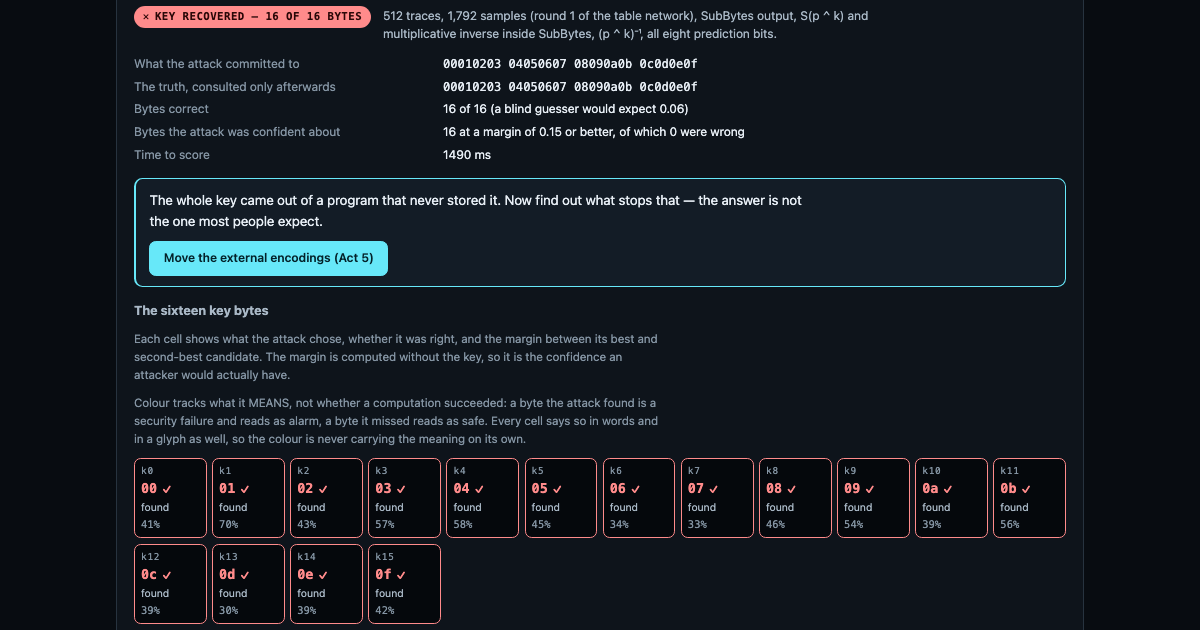
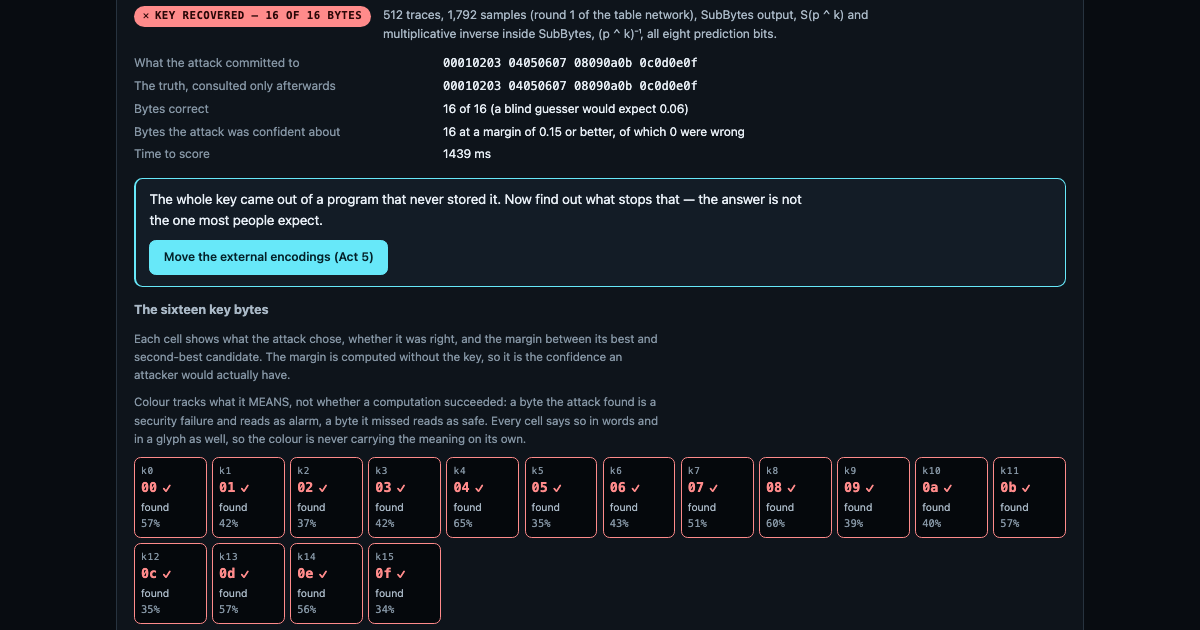
Make a seed pin the run, not just the program
CI failed the sweep on a claim the lab could not keep. The sweep asserted
that compiling the external encodings in leaves the recovery unchanged, and
got 15 bytes against 16 at 256 traces. Nothing was wrong with the page. The
sweep had no seed, so it built `sweep-${Date.now()}` - a different instance
every run - and the assertion was about a measurement nobody could look at
again. The same test had passed twice before on other instances.

Chasing that turned up the real defect, which was a sentence. The page said
a seeded link "gives the same instance, the same traces and the same
recovery". It did not: handleTrace drew the attacker's plaintexts from
systemRng() regardless, so a seed pinned the program and left the run to
chance. Two runs of one seed disagreed on every confidence margin.

So the seed now pins the plaintexts too, from a `seed + '/traces'` stream -
domain-separated from the one that builds the encodings, because trace input
that happened to be encoding material would be hard to notice and
embarrassing to explain. It makes the attack no easier: DCA needs plaintexts
it KNOWS, not plaintexts nobody could predict, and where they came from is
not an input to the statistic. An unseeded instance still draws from the
system RNG and still says so. Measured: two seeded runs now agree on all
sixteen margins, two unseeded runs agree on none, and a claims test asserts
both directions.

The act 5 comparison gains a third outcome. "The counts differ" and "the
[…]

diff --git a/src/main.ts b/src/main.ts
@@ -618,7 +618,7 @@ function buildSection(): HTMLElement {
       'seed',
       'Encoding seed (optional)',
       seedInput,
-      'Leave it empty for crypto.getRandomValues. A seed reproduces the exact instance — encodings, mixing bijections and all — which makes it reproducible and therefore not secret.',
+      'Leave it empty for crypto.getRandomValues. A seed pins the whole run: every encoding and mixing bijection, and the plaintexts the attack is given to work from, so the same seed gives the same recovery down to the confidence margins. That is reproducible and therefore not secret. Without one, the instance AND the plaintexts are fresh each time, so two runs of the same settings can differ by a byte or two.',
     ),
     radioGroup('placement', 'Where the external encodings live', PLACEMENT_OPTIONS, state.placement, (value) => {
       // Re-selecting what is already selected must not retire a fresh verdict.
@@ -1450,13 +1450,32 @@ function renderLog(): void {
   const plain = state.log.find((r) => r.placement === 'none' && r.surface === 'input');
   const compiled = state.log.find((r) => r.placement === 'compiled-in' && r.surface === 'input');
   if (plain && compiled) {
+    /*
+     * Three outcomes, not two, because "the counts differ" and "the encoding
+     * stopped the attack" are not the same event and only the second one would
+     * contradict Bos et al. section 5.4 as this lab reproduces it.
+     *
+     * An unseeded run draws fresh plaintexts for each placement, so two runs
+     * that both recover the key can still land a byte or two apart. Reporting
+     * that as THE TWO RUNS DIFFER and stopping there invited the reader to
+     * conclude the headline claim had just failed in front of them. It had not.
+     * A seeded instance pins the plaintexts too, and then the counts are equal
+     * or something is genuinely wrong.
+     */
     const same = plain.correctCount === compiled.correctCount;
+    const stopped = plain.correctCount >= 4 && compiled.correctCount < 4;
+    const outcome = stopped ? 'refuted' : same ? 'identical' : 'different';
+    const head = stopped
+      ? 'THE ENCODING STOPPED THE ATTACK'
+      : same
+        ? 'THE ENCODING CHANGED NOTHING'
+        : 'THE ENCODING DID NOT SAVE IT';
     logHost.append(
       el(
         'div',
-        { class: 'verdict-row', id: 'compiled-in-comparison', 'data-comparison': same ? 'identical' : 'different' },
+        { class: 'verdict-row', id: 'compiled-in-comparison', 'data-comparison': outcome },
         [
-          verdict(same ? 'alarm' : 'warn', same ? 'THE ENCODING CHANGED NOTHING' : 'THE TWO RUNS DIFFER'),
+          verdict(stopped ? 'ok' : 'alarm', head),
           el('span', { class: 'verdict-detail' }, [
             `Compiling the external encodings in grew the program from ${count(plain.tables)} tables (${bytesHuman(
               plain.bytes,
@@ -1464,7 +1483,14 @@ function renderLog(): void {
               plain.traceBits,
             )} bits to ${count(compiled.traceBits)}. The attack recovered ${plain.correctCount} bytes before and ${
               compiled.correctCount
-            } after.`,
+            } after.` +
+              (stopped
+                ? ' That is the one result on this page that would contradict what it claims, and it is being shown rather than hidden. Re-run it with a seed before believing it: an unseeded run is a different instance each time.'
+                : same
+                  ? ''
+                  : ` The counts are not equal, and that is sampling, not protection: at ${count(
+                      plain.traces,
+                    )} traces a byte near the decision boundary can fall either way. The claim is that the encoding does not stop the attack, and on both sides of this comparison it did not. Put a seed in the instance to pin the plaintexts and the two runs become comparable byte for byte.`),
           ]),
         ],
       ),
@@ -2493,7 +2519,7 @@ function shareControl(): HTMLElement {
         .catch(() => done(false));
     }),
     el('p', { class: 'hint' }, [
-      'Reproducibility is the point: a seed pins every encoding and mixing bijection, so the same link gives the same instance, the same traces and the same recovery.',
+      'Reproducibility is the point: a seed pins every encoding and mixing bijection AND the plaintexts traced under them, so the same link gives the same instance, the same traces and the same recovery. A link with no seed in it carries the settings only, and the run it produces will be a different instance.',
     ]),
   ]);
 }

diff --git a/e2e/claims.spec.ts b/e2e/claims.spec.ts
@@ -939,6 +939,35 @@ test.describe('reproducible run links', () => {
     await expect(page.locator('#share-status')).toContainText('not secret');
   });
 
+  test('a seed reproduces the RUN, not just the instance -- and no seed does not', async ({ page }) => {
+    // What the link promises. A seed that pinned the encodings but not the
+    // plaintexts traced under them would give the same program and a different
+    // result, which is not what "reproducible" means to anyone reading it.
+    //
+    // Margins are the sharp instrument here: a margin is (peak - runner-up) /
+    // peak over the measured trace bits, so two runs agreeing on all sixteen to
+    // the printed percent is not something a different set of plaintexts does.
+    const measure = async (seed: string): Promise<string[]> => {
+      await boot(page);
+      if (seed.length > 0) await setSeed(page, seed);
+      await build(page, 'none');
+      await trace(page, 256);
+      await attack(page, 'input', ['sbox', 'inverse']);
+      return page.locator('#byte-strip .byte-margin').allInnerTexts();
+    };
+
+    const first = await measure('repro-seed');
+    const second = await measure('repro-seed');
+    expect(first).toHaveLength(16);
+    expect(second).toEqual(first);
+
+    // And the unseeded path really is unseeded, so the label on it is not a
+    // formality. Sixteen margins agreeing by chance is not a thing that happens.
+    const loose = await measure('');
+    expect(loose).toHaveLength(16);
+    expect(loose).not.toEqual(first);
+  });
+
   test('opening a link reproduces the settings it carried', async ({ page }) => {
     await page.goto(
       './?seed=shared-seed&key=2b7e151628aed2a6abf7158809cf4f3c&placement=compiled-in&traces=768&surface=input&targets=sbox-output,inverse&bits=3&score=extremity',
@@ -972,6 +1001,12 @@ test.describe('the sweep', () => {
   test('measures all seven combinations and ends on the state the claim is about', async ({ page }) => {
     test.setTimeout(600_000);
     await boot(page);
+    // A seed, like every other act-5 test here. Without one the sweep builds
+    // `sweep-${Date.now()}` -- a different instance on every run -- and the
+    // comparison below is then an assertion about an unrepeatable measurement.
+    // It failed in CI exactly that way: 15 bytes against 16 at 256 traces, on
+    // an instance no one could look at afterwards.
+    await setSeed(page, 'act5-fixed');
     await page.fill('#traces', '256');
     await page.locator('#sweep').click();
     await expect(page.locator('#sweep-status')).toContainText('Measured all 7 combinations', { timeout: 420_000 });
@@ -991,7 +1026,12 @@ test.describe('the sweep', () => {
     }
     // One seed across the sweep, so this is a comparison of placements rather
     // than of seven unrelated instances -- and the headline result follows.
+    // A seed now pins the traced plaintexts too, so this is reproducible rather
+    // than merely likely.
     await expect(page.locator('#compiled-in-comparison')).toHaveAttribute('data-comparison', 'identical');
+    // The outcome that would actually contradict Bos et al. 5.4 has its own
+    // state, so a failure here cannot quietly read as the benign one.
+    await expect(page.locator('#compiled-in-comparison')).not.toHaveAttribute('data-comparison', 'refuted');
 
     // It leaves the page on the state the negative claim is about, with the
     // claim and its four green checks on screen.

diff --git a/src/lab.worker.ts b/src/lab.worker.ts
@@ -78,6 +78,13 @@ interface Session {
   readonly key: Uint8Array;
   readonly lastRoundKey: Uint8Array;
   readonly placement: EncodingPlacement;
+  /**
+   * The seed this instance was built from, empty for an unseeded one. Kept so
+   * the TRACE can be drawn reproducibly too: a seed that pinned the program but
+   * not the plaintexts fed to it would make "the same link gives the same
+   * recovery" false, because the recovery is measured off those plaintexts.
+   */
+  readonly seed: string;
 }
 
 let session: Session | null = null;
@@ -179,6 +186,7 @@ async function handleBuild(id: number, keyHex: string, placement: EncodingPlacem
     key,
     lastRoundKey: new Uint8Array(expandKey(key).subarray(160, 176)),
     placement,
+    seed,
   };
   traceSet = null;
 
@@ -234,7 +242,23 @@ function handleTrace(id: number, traces: number): void {
     );
   }
   const startedAt = Date.now();
-  const inputs = systemRng().bytes(traces * 16);
+  /*
+   * The attacker's chosen plaintexts. Seeded when the instance is, so a seeded
+   * run really is one run: same program, same plaintexts, same recovery, which
+   * is what the page and the share link both say.
+   *
+   * The stream is derived from seed + '/traces' rather than continuing the one
+   * that built the encodings. Domain separation costs nothing here and keeps
+   * the two uses of a seed from ever being the same bytes -- a trace input that
+   * happened to be encoding material would be a hard thing to notice and an
+   * embarrassing thing to explain.
+   *
+   * It does not make the attack easier. DCA needs plaintexts it KNOWS, not
+   * plaintexts that are unpredictable; where they came from is not an input to
+   * the statistic. An unseeded instance still draws them from the system RNG.
+   */
+  const inputs =
+    current.seed.length > 0 ? seededRng(`${current.seed}/traces`).bytes(traces * 16) : systemRng().bytes(traces * 16);
   const set = collectTraces(current.network, inputs, traces, (done) => {
     post({ kind: 'progress', id, phase: 'running traced encryptions', done, total: traces });
   });

diff --git a/README.md b/README.md
@@ -303,10 +303,10 @@ per cent of each other.
 
 ## Build & Verify
 
-**170 tests, all executed, none skipped.**
+**171 tests, all executed, none skipped.**
 
 - **121 unit tests** (Vitest, `src/**/*.test.ts`).
-- **46 claims tests** (Playwright, `e2e/claims.spec.ts`) — checking that the page
+- **47 claims tests** (Playwright, `e2e/claims.spec.ts`) — checking that the page
   tells the truth, by comparing values the page itself printed and re-deriving its
   claims from what is on screen.
 - **3 accessibility tests** (Playwright + `@axe-core/playwright`,
@@ -348,6 +348,11 @@ per cent of each other.
 - **A run link round-trips** — the settings it carries are reapplied, a key the
   reader typed is not in it, and a link full of nonsense falls back to the
   shipped defaults rather than trusting any of it.
+- **A seed reproduces the run, not just the instance** — two runs of the same
+  seed agree on all sixteen confidence margins, and two runs with no seed do
+  not. The seed pins the encodings, the mixing bijections AND the plaintexts
+  the attack is given, because a link that reproduced the program but not the
+  result would not be reproducing anything a reader cares about.
 - **BGE step A1 is correct, not merely self-consistent** — the recovered map
   composed with the true encoding is verified to be GF(2)-affine over all 2^16
   pairs, on four rounds and four columns; and a one-swap perturbation of the
